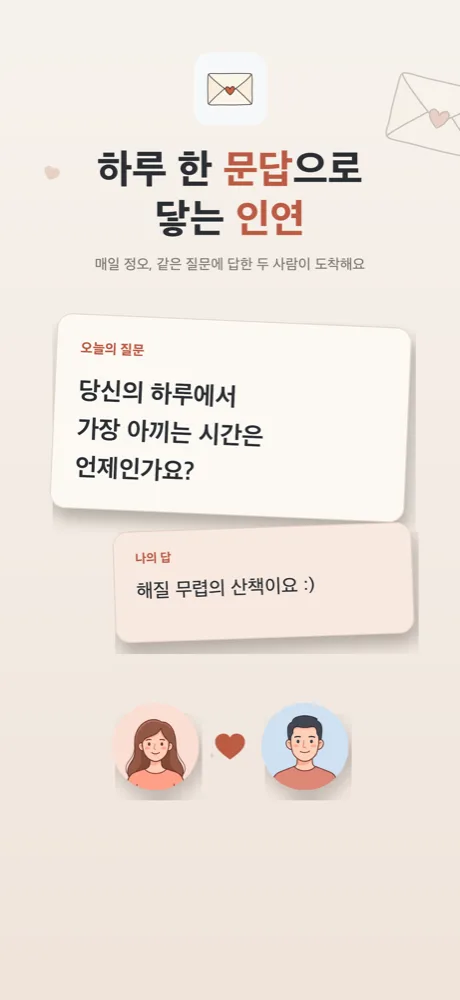
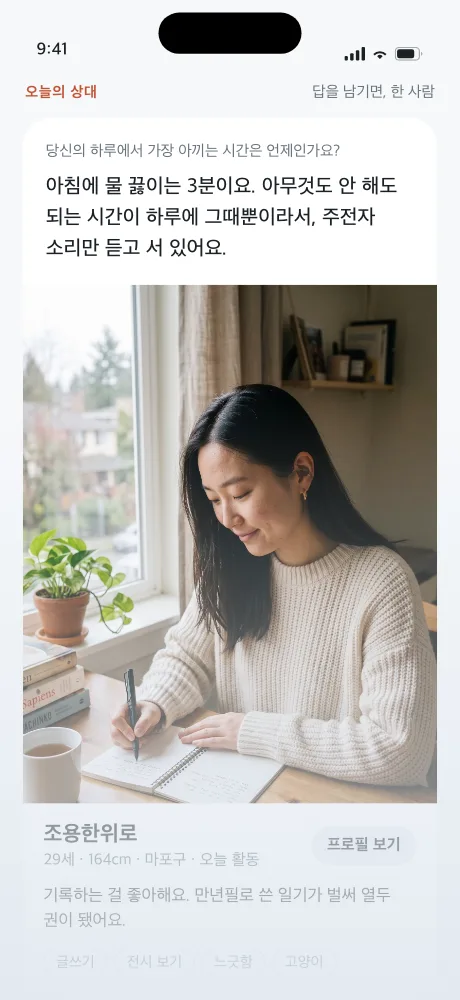
feat(web): 랜딩 화면을 실제 앱 화면으로 — 스토어만 새 판이고 웹은 옛 판이었다
오늘 App Store 스크린샷을 v3로 갈아치웠는데 랜딩은 그대로였다. web/public/screens의
넉 장은 store/appstore-*.png와 같은 그림 — 크림 바탕에 클립아트를 올린, README가 "지금의
디자인 시스템과 다른 앱처럼 보인다"고 적어둔 그 판이다. 스토어에서 본 화면과 웹에서 본
화면이 다르면 같은 앱으로 안 읽힌다.

규격이 마침 맞았다. 웹은 기기 틀을 CSS로 그리고 화면만 460×1000으로 끼우는데, 비율 0.46이
6.9″ 판과 같아 같은 조판이 잘리지 않고 들어간다. build.mjs에 네 번째 판형으로 더한다 —
헤드라인도 기기 틀도 없이 화면만. 여기서 틀을 그리면 웹의 틀과 두 겹이 된다.

굽는 김에 webp로 줄여 web/public/screens에 바로 꽂는다. out/에 두고 손으로 옮기면 언젠가
한쪽만 갱신되는데, 오늘이 바로 그 언젠가였다.

모임 단계(05)도 더한다. 앱 설명에는 오늘 모임 문단을 넣었으면서 랜딩에는 모임 얘기가 한 줄도
없었다. 앱이 실제로 하는 일과 랜딩이 말하는 일이 어긋나 있었다.

Claude-Session: https://claude.ai/code/session_01GxDKtsS4ANcNcYuU3AZbhT

diff --git a/store/v3/frame.css b/store/v3/frame.css
@@ -239,3 +239,16 @@ body.ios65 .panel {
   transform: scale(0.9727272);
   transform-origin: top left;
 }
+
+/*
+ * 웹 판형 — 랜딩(prologue.day)이 쓰는 화면.
+ *
+ * 스토어 판과 달리 기기 틀과 헤드라인이 없다. 웹은 기기 그림을 CSS로 직접 그리고(.phone)
+ * 그 안에 화면만 끼워 넣기 때문이다. 여기서 틀까지 그리면 틀이 두 겹이 된다.
+ *
+ * 460×1000은 랜딩이 쓰던 규격 그대로다. 402pt 폭을 1.14428배 하면 460px이 되고,
+ * 비율(0.46)이 6.9" 판(1320×2868)과 같아 같은 조판이 잘리지 않고 들어간다.
+ */
+body.web { width: 460px; height: 1000px; overflow: hidden; background: #F6F8FA; }
+body.web::before { display: none; }
+body.web .app { transform: scale(1.14428); }

diff --git a/store/v3/README.md b/store/v3/README.md
@@ -1,6 +1,8 @@
 # 스토어 스크린샷 (v3)
 
-`node store/v3/build.mjs` → `out/ios` (1320×2868) · `out/ios65` (1284×2778) · `out/android` (1080×1920)
+`node store/v3/build.mjs` → `out/ios` (1320×2868) · `out/ios65` (1284×2778) · `out/android` (1080×1920) · `out/web` (460×1000)
+
+웹 판은 굽는 김에 webp로 줄여 `web/public/screens/`에 바로 꽂습니다 — 손으로 옮기면 언젠가 한쪽만 갱신되고, 실제로 그런 적이 있습니다(스토어는 v3인데 랜딩은 v1이었습니다).
 
 ## 왜 다시 만들었나
 
@@ -36,6 +38,7 @@
 | `ios` | 1320×2868 | 6.9″ |
 | `ios65` | 1284×2778 | 6.5″. 지금 리스팅에 올라가 있는 세트가 이쪽(`APP_IPHONE_65`)입니다. 6.9″와 비율이 2.164 대 2.173이라 리사이즈하면 찌그러지므로, 6.9″ 판을 짜고 폭에 맞춰 한 번 축소해 비례를 지킵니다 |
 | `android` | 1080×1920 | 애플 판을 줄여 쓸 수 없습니다 — Play는 긴 변이 짧은 변의 2배를 넘으면 거부하는데 6.9″는 2.17배입니다 |
+| `web` | 460×1000 | 랜딩(prologue.day)이 쓰는 화면. 기기 틀과 헤드라인이 없습니다 — 틀은 웹이 CSS(`.phone`)로 그리므로 여기서 그리면 두 겹이 됩니다. 비율 0.46이 6.9″와 같아 같은 조판이 잘리지 않습니다 |
 
 기기 틀도 판마다 다릅니다. Play 판에 다이내믹 아일랜드를 그리면 아이폰이 되므로
 펀치홀 카메라로 바꿉니다.
